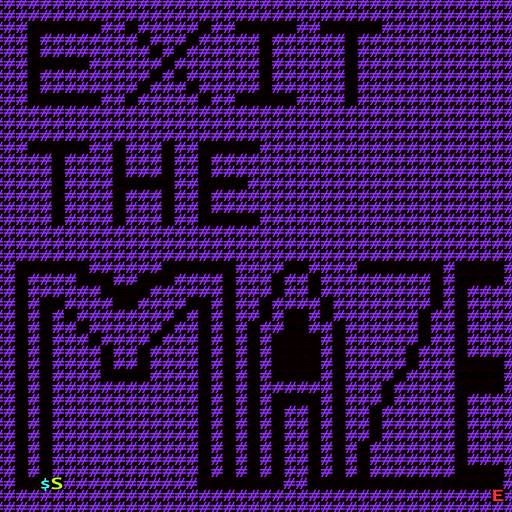
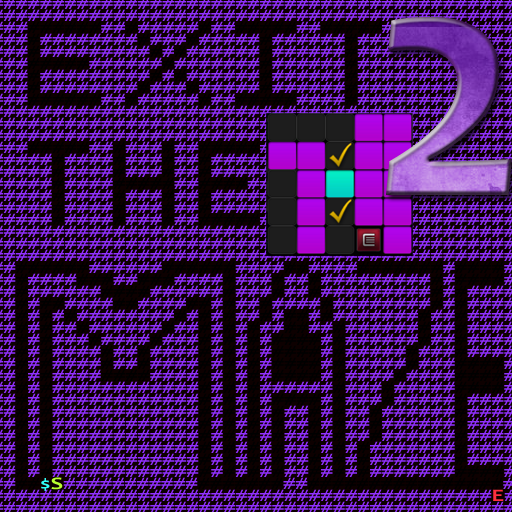
Client 2

Changed region(s): [[0.5, 0.0312, 1.0, 0.5]]

diff --git a/default.py b/default.py
@@ -18,13 +18,17 @@ def SFX(n,e='.wav'):
 		except: pass
 
 class MyWindow(xbmcgui.Window):
-	button={}; Mistakes=0; NoOfMoves=0; 
+	visuals={}; button={}; Mistakes=0; NoOfMoves=0; 
 	countA=0; countB=0; LineLength=0; 
-	cUser='$'; cEnd='E'; cStart='S'; cWall='#'; cPath=' '; 
+	MazeFont='font10'; cUser='$'; cEnd='E'; cStart='S'; cWall='#'; cPath=' '; 
+	MazeVisL=630; MazeVisT=20; WH=64*2; 
+	##
 	tWinner='winner'; GridButton={}; GridButtonUD={}; GridButtonUDC={}; GridButtonUDN={}; 
 	Hands=[1,2,3];
 	PuzzleGridA=''; PuzzleGridB=''; PuzzleWordList=''; PuzzleFileHolder=''; 
 	def __init__(self):
+		self.MazeVisW=self.WH; self.MazeVisH=self.WH; 
+		##
 		self.Fanart=(xbmc.translatePath(Config.fanart)); self.b1=artp("black1"); self.current=0; self.content=[]; self.scr={}; self.scr['L']=0; self.scr['T']=0; self.scr['W']=1280; self.scr['H']=720; 
 		self.AniTime=' time=2000 '; self.AniEnd=' end=80 '; 
 		#note("HUB-HUG Movement Series","Please wait.  Preparing screen.  Load Time may vary from device to device.",delay=10000); 
@@ -75,7 +79,7 @@ class MyWindow(xbmcgui.Window):
 		w=self.scr['W']-(l*2); h=self.scr['H']-(t*2); 
 		w=self.scr['W']-(l+t-10); 
 		self.HoroTxtBG=xbmcgui.ControlButton(l,t,w,h,"",textColor="0xFF000000",focusedColor="0xFF00BFFF",alignment=2,focusTexture=self.b1,noFocusTexture=self.b1); 
-		self.HoroTxt=xbmcgui.ControlTextBox(l+10,t+2,w-20,h-4,font='font14',textColor="0xFFFFFFFF"); 
+		self.HoroTxt=xbmcgui.ControlTextBox(l+10,t+2,w-20,h-4,font=self.MazeFont,textColor="0xFFFFFFFF"); 
 		zz=[self.HoroTxtBG,self.HoroTxt]
 		for z in zz: self.addControl(z); #z.setAnimations([('WindowOpen','effect=fade delay=2000 time=2000 start=0 end=80')]); 
 		self.HoroTxtBG.setAnimations([('WindowOpen','effect=fade delay=4000 time=2000 start=0 end=90')]); 
@@ -98,22 +102,144 @@ class MyWindow(xbmcgui.Window):
 		#for z in zz: z.controlUp(bZ); z.controlLeft(bZ); z.controlRight(bZ); z.controlDown(bZ); 
 		## ### ## Focus
 		#self.setFocus(self.button[0])
-		self.setFocus(self.HoroTxtBG)
+		self.setFocus(self.HoroTxtBG); 
 		## ### ## 
-		self.PrepareMaze(self.PuzzleFileHolder)
+		self.makeVisualItems(); 
+		if (tfalse(SettingG("show-map"))==True): self.PrepareMaze(self.PuzzleFileHolder); 
+		self.displayVisualItems(self.PuzzleFileHolder.index(self.cUser)); 
 		## ### ## 
+	def displayVisualItem(self,iTag,visImg='f_black2'):
+		visImg=artp(visImg); 
+		#try: 
+		self.visuals[iTag].setImage(visImg,True);
+		#except: 
+		#	try: self.visuals[iTag].setImage(visImg,True);
+		#	except: pass
+		
+	def checkData(self,Pos):
+		defaultMissing='ThumbShadow'; 
+		if Pos < 0: return defaultMissing
+		if Pos > len(self.PuzzleFileHolder): return defaultMissing
+		try:
+			P=self.PuzzleFileHolder[Pos]; 
+			#deb(str(Pos),P); 
+			if   P==self.cWall: return 'f_purple'
+			elif P==self.cEnd: return 'home-favourites-FO_red'
+			elif P==self.cStart: return 'home-power-FO_green'
+			elif P==self.cPath: return 'f_black2'
+			elif P==self.cUser: return 'f_seagreen'
+			else: return defaultMissing
+		except: return defaultMissing
+		#self.cUser='@'; self.cEnd='E'; self.cStart='S'; self.cWall='#'; self.cPath=' '; 
+	def displayVisualItems(self,NewPos):
+		self.displayVisualItem('L0C0',self.checkData( NewPos-((self.LineLength+1)*2)-2 )); 
+		self.displayVisualItem('L0C1',self.checkData( NewPos-((self.LineLength+1)*2)-1 )); 
+		self.displayVisualItem('L0C2',self.checkData( NewPos-((self.LineLength+1)*2)-0 )); 
+		self.displayVisualItem('L0C3',self.checkData( NewPos-((self.LineLength+1)*2)+1 )); 
+		self.displayVisualItem('L0C4',self.checkData( NewPos-((self.LineLength+1)*2)+2 )); 
+		
+		self.displayVisualItem('L1C0',self.checkData( NewPos-((self.LineLength+1)*1)-2 )); 
+		self.displayVisualItem('L1C1',self.checkData( NewPos-((self.LineLength+1)*1)-1 )); 
+		self.displayVisualItem('L1C2',self.checkData( NewPos-((self.LineLength+1)*1)-0 )); 
+		self.displayVisualItem('L1C3',self.checkData( NewPos-((self.LineLength+1)*1)+1 )); 
+		self.displayVisualItem('L1C4',self.checkData( NewPos-((self.LineLength+1)*1)+2 )); 
+		
+		self.displayVisualItem('L2C0',self.checkData( NewPos-((self.LineLength+1)*0)-2 )); 
+		self.displayVisualItem('L2C1',self.checkData( NewPos-((self.LineLength+1)*0)-1 )); 
+		self.displayVisualItem('L2C2',self.checkData( NewPos )); 
+		self.displayVisualItem('L2C3',self.checkData( NewPos-((self.LineLength+1)*0)+1 )); 
+		self.displayVisualItem('L2C4',self.checkData( NewPos-((self.LineLength+1)*0)+2 )); 
+		
+		self.displayVisualItem('L3C0',self.checkData( NewPos+((self.LineLength+1)*1)-2 )); 
+		self.displayVisualItem('L3C1',self.checkData( NewPos+((self.LineLength+1)*1)-1 )); 
+		self.displayVisualItem('L3C2',self.checkData( NewPos+((self.LineLength+1)*1)-0 )); 
+		self.displayVisualItem('L3C3',self.checkData( NewPos+((self.LineLength+1)*1)+1 )); 
+		self.displayVisualItem('L3C4',self.checkData( NewPos+((self.LineLength+1)*1)+2 )); 
+		
+		self.displayVisualItem('L4C0',self.checkData( NewPos+((self.LineLength+1)*2)-2 )); 
+		self.displayVisualItem('L4C1',self.checkData( NewPos+((self.LineLength+1)*2)-1 )); 
+		self.displayVisualItem('L4C2',self.checkData( NewPos+((self.LineLength+1)*2)-0 )); 
+		self.displayVisualItem('L4C3',self.checkData( NewPos+((self.LineLength+1)*2)+1 )); 
+		self.displayVisualItem('L4C4',self.checkData( NewPos+((self.LineLength+1)*2)+2 )); 
+		
+		zz=[['L1C2B',( NewPos-((self.LineLength+1)*1)-0 )],['L2C1B',( NewPos-((self.LineLength+1)*0)-1 )],['L2C3B',( NewPos-((self.LineLength+1)*0)+1 )],['L3C2B',( NewPos+((self.LineLength+1)*1)-0 )]]
+		for iTag,Pos in zz:
+			try:
+				P=self.PuzzleFileHolder[Pos]; 
+				if   (P==self.cPath): self.visuals[iTag].setVisible(True)
+				elif (P==self.cEnd): self.visuals[iTag].setVisible(True)
+				elif (P==self.cStart): self.visuals[iTag].setVisible(True)
+				elif (P==self.cPath): self.visuals[iTag].setVisible(True)
+				elif (P==self.cWall): self.visuals[iTag].setVisible(False)
+				else: self.visuals[iTag].setVisible(False)
+			except: self.visuals[iTag].setVisible(False)
+		#self.cUser='@'; self.cEnd='E'; self.cStart='S'; self.cWall='#'; self.cPath=' '; 
+		#self.LineLength
+		#return
+	def makeVisualItem(self,Type,iTag,l,t,w,h,visImg='f_black2'):
+		visImg=artp(visImg); visImgB=artp('OverlayWatched_orange'); 
+		if Type.upper()=='B':
+			self.visuals[iTag]=xbmcgui.ControlImage(l,t,w,h,visImg,aspectRatio=0); 
+			self.addControl(self.visuals[iTag])
+			self.visuals[iTag+'B']=xbmcgui.ControlButton(l,t,w,h,"",textColor="0xFF000000",focusedColor="0xFF00BFFF",alignment=2,focusTexture=visImgB,noFocusTexture=visImgB); 
+			self.addControl(self.visuals[iTag+'B'])
+			self.visuals[iTag].setAnimations([('WindowOpen','effect=fade delay=4000 time=2000 start=0')]); 
+			self.visuals[iTag+'B'].setAnimations([('WindowOpen','effect=fade delay=4000 time=2000 start=0')]); 
+		elif Type.upper()=='I':
+			self.visuals[iTag]=xbmcgui.ControlImage(l,t,w,h,visImg,aspectRatio=0); 
+			self.addControl(self.visuals[iTag])
+			self.visuals[iTag].setAnimations([('WindowOpen','effect=fade delay=4000 time=2000 start=0')]); 
+		else: return
+	def makeVisualItems(self):
+		initVis='f_black2'; w=self.MazeVisW; h=self.MazeVisH; l=self.MazeVisL; t=self.MazeVisT; 
+		self.makeVisualItem("I","L0C0",l+(w*0),t+(h*0),w,h,visImg=initVis)
+		self.makeVisualItem("I","L0C1",l+(w*1),t+(h*0),w,h,visImg=initVis)
+		self.makeVisualItem("I","L0C2",l+(w*2),t+(h*0),w,h,visImg=initVis)
+		self.makeVisualItem("I","L0C3",l+(w*3),t+(h*0),w,h,visImg=initVis)
+		self.makeVisualItem("I","L0C4",l+(w*4),t+(h*0),w,h,visImg=initVis)
+		
+		self.makeVisualItem("I","L1C0",l+(w*0),t+(h*1),w,h,visImg=initVis)
+		self.makeVisualItem("I","L1C1",l+(w*1),t+(h*1),w,h,visImg=initVis)
+		self.makeVisualItem("B","L1C2",l+(w*2),t+(h*1),w,h,visImg=initVis)
+		self.makeVisualItem("I","L1C3",l+(w*3),t+(h*1),w,h,visImg=initVis)
+		self.makeVisualItem("I","L1C4",l+(w*4),t+(h*1),w,h,visImg=initVis)
+		
+		self.makeVisualItem("I","L2C0",l+(w*0),t+(h*2),w,h,visImg=initVis)
+		self.makeVisualItem("B","L2C1",l+(w*1),t+(h*2),w,h,visImg=initVis)
+		self.makeVisualItem("I","L2C2",l+(w*2),t+(h*2),w,h,visImg='f_seagreen')
+		self.makeVisualItem("B","L2C3",l+(w*3),t+(h*2),w,h,visImg=initVis)
+		self.makeVisualItem("I","L2C4",l+(w*4),t+(h*2),w,h,visImg=initVis)
+		
+		self.makeVisualItem("I","L3C0",l+(w*0),t+(h*3),w,h,visImg=initVis)
+		self.makeVisualItem("I","L3C1",l+(w*1),t+(h*3),w,h,visImg=initVis)
+		self.makeVisualItem("B","L3C2",l+(w*2),t+(h*3),w,h,visImg=initVis)
+		self.makeVisualItem("I","L3C3",l+(w*3),t+(h*3),w,h,visImg=initVis)
+		self.makeVisualItem("I","L3C4",l+(w*4),t+(h*3),w,h,visImg=initVis)
+		
+		self.makeVisualItem("I","L4C0",l+(w*0),t+(h*4),w,h,visImg=initVis)
+		self.makeVisualItem("I","L4C1",l+(w*1),t+(h*4),w,h,visImg=initVis)
+		self.makeVisualItem("I","L4C2",l+(w*2),t+(h*4),w,h,visImg=initVis)
+		self.makeVisualItem("I","L4C3",l+(w*3),t+(h*4),w,h,visImg=initVis)
+		self.makeVisualItem("I","L4C4",l+(w*4),t+(h*4),w,h,visImg=initVis)
 	def onAction(self,action):
 		try: F=self.getFocus()
 		except: F=False
 		if   action == Config.ACTION_PREVIOUS_MENU: self.CloseWindow1st()
 		elif action == Config.ACTION_NAV_BACK: self.CloseWindow1st()
-		elif (F==self.HoroTxtBG) or (F==self.HoroTxtBG):
+		else:
+		#elif (F==self.HoroTxtBG) or (F==self.HoroTxtBG):
 			try: self.DoFight(action,F)
 			except: pass
 	def onControl(self,control):
 		if   control==self.button[0]: self.CloseWindow1st()
 		#elif (F==self.HoroTxtBG) or (F==self.HoroTxtBG):
-		#else:
+		else:
+			try:
+				if self.visuals['L1C2B']==control: self.onAction(Config.ACTION_MOVE_UP)
+				if self.visuals['L2C1B']==control:self.onAction(Config.ACTION_MOVE_LEFT)
+				if self.visuals['L2C3B']==control:self.onAction(Config.ACTION_MOVE_RIGHT)
+				if self.visuals['L3C2B']==control:self.onAction(Config.ACTION_MOVE_DOWN)
+			except: pass
 		##
 	def DoFight(self,action,F):
 		#self.LineLength
@@ -157,8 +283,9 @@ class MyWindow(xbmcgui.Window):
 			#self.PuzzleFileHolder[NewPos]=self.cUser
 			if self.PuzzleFileHolder_Original[NewPos]==self.cEnd: 
 				self.VictoryDance(); 
-			self.PuzzleFileHolder=self.PuzzleFileHolder[0:NewPos]+self.cUser+self.PuzzleFileHolder[NewPos+1:len(self.PuzzleFileHolder)]
-			self.PrepareMaze(self.PuzzleFileHolder)
+			self.PuzzleFileHolder=self.PuzzleFileHolder[0:NewPos]+self.cUser+self.PuzzleFileHolder[NewPos+1:len(self.PuzzleFileHolder)]; 
+			if (tfalse(SettingG("show-map"))==True) and (tfalse(SettingG("show-maplocation"))==True): self.PrepareMaze(self.PuzzleFileHolder); 
+			self.displayVisualItems(NewPos); 
 		#self.cUser='@'; self.cEnd='E'; self.cStart='S'; self.cWall='#'; self.cPath=' '; 
 	def VictoryDance(self):
 		try:

diff --git a/config.py b/config.py
@@ -1,7 +1,7 @@
 ## from config import Config as Config
 
 import xbmc,xbmcaddon,xbmcplugin,os
-_addon_id="plugin.program.hubhug.maze"; _addon_name="HUB-HUG Exit The Maze"; 
+_addon_id="plugin.program.hubhug.maze2"; _addon_name="HUB-HUG Exit The Maze 2"; 
 _addon=xbmcaddon.Addon(id=_addon_id); 
 
 def gAI(t):
